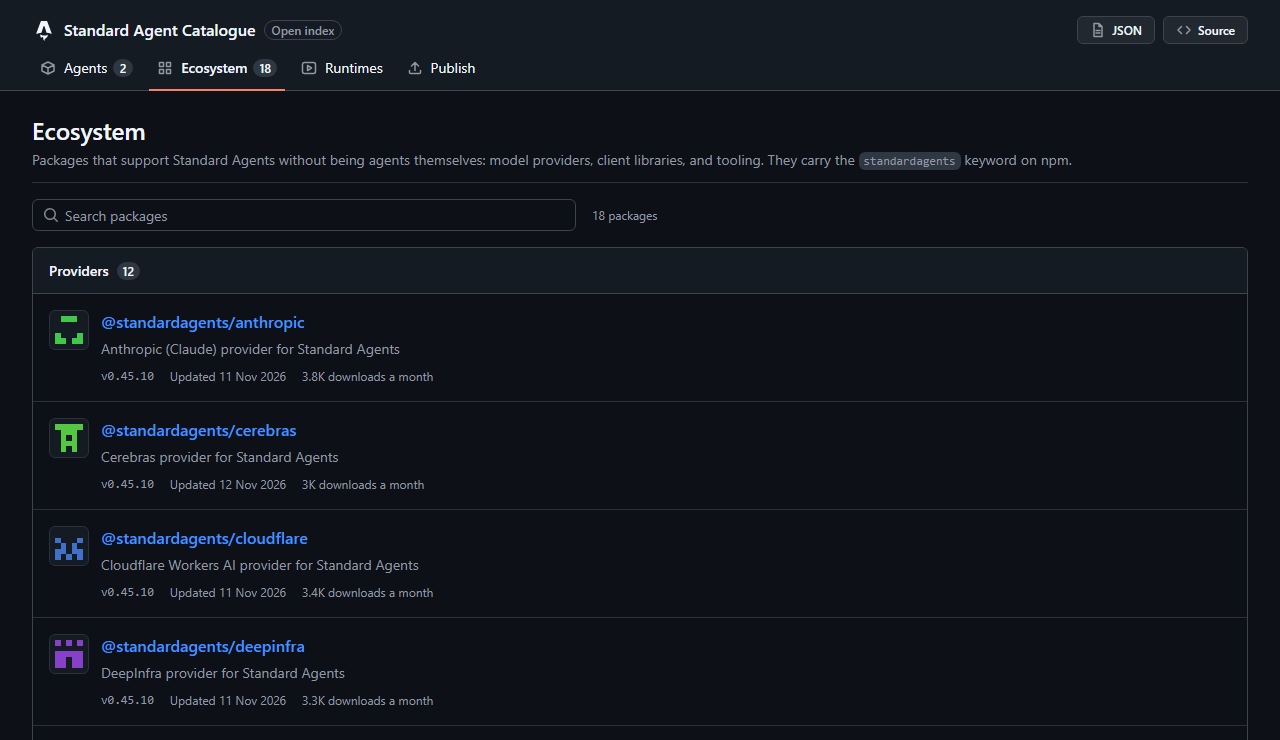
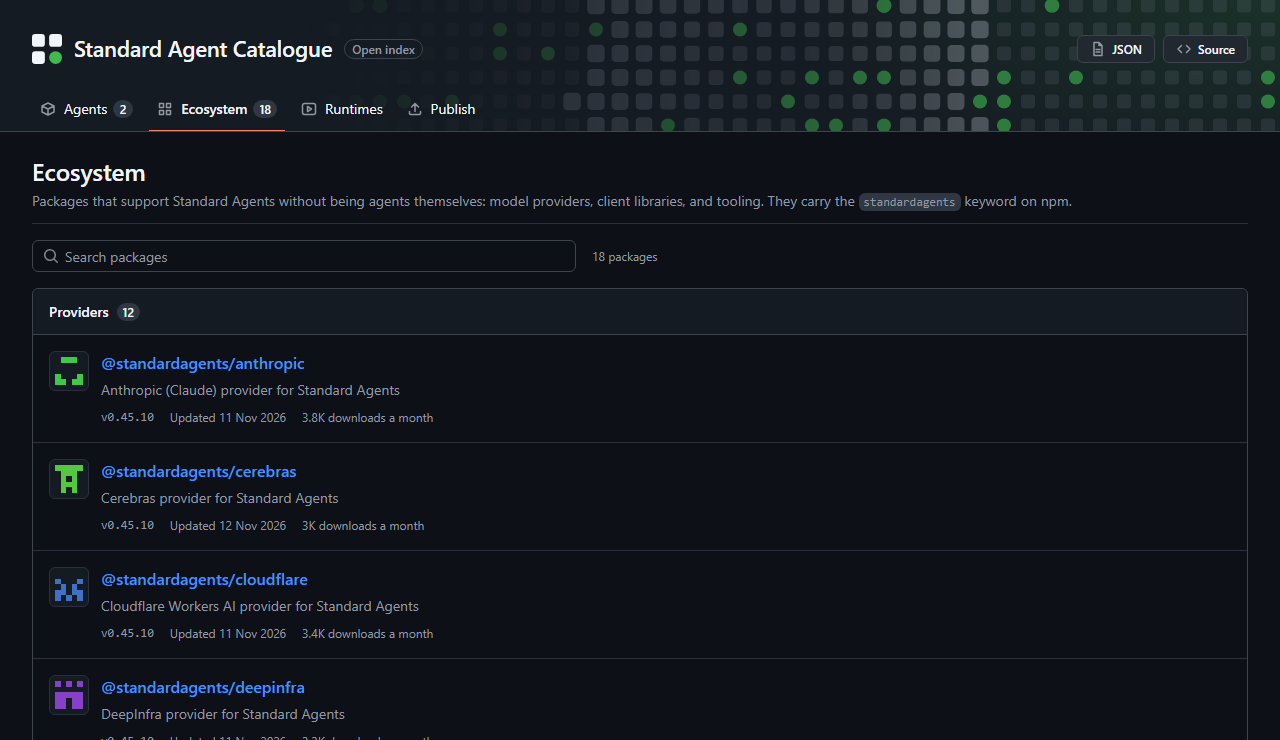
style: a roomier header with an animated picture behind it
- The header has more space, a larger name, and the new logo.
- Behind it is a shelf of packages with agents among them, in the
  logo's shapes. It is drawn at build time, so it shows without script.
- Anime.js moves it: each agent breathes, and one agent at a time sends
  a ripple through the packages near it. A reader who asks for reduced
  motion gets the still picture.

Anime.js sets styles through the CSSOM, which the Content-Security-
Policy allows. Checked by serving the built site with its real headers.

Changed region(s): [[0.0, 0.0, 1.0, 1.0], [0.5625, 0.0311, 0.5938, 0.0622], [0.4688, 0.3419, 0.5, 0.373]]

diff --git a/src/styles/global.css b/src/styles/global.css
@@ -33,6 +33,7 @@
   --btn-primary-bg: #1f883d;
   --btn-primary-hover-bg: #1c8139;
   --btn-primary-border: #1a7f37;
+  --brand-agent: #1f883d;
 
   --radius: 6px;
   --sans: -apple-system, BlinkMacSystemFont, 'Segoe UI', 'Noto Sans', Helvetica, Arial, sans-serif;
@@ -61,6 +62,7 @@
     --btn-primary-bg: #238636;
     --btn-primary-hover-bg: #29903b;
     --btn-primary-border: #2ea043;
+    --brand-agent: #3fb950;
   }
 }
 
@@ -110,38 +112,88 @@ a:focus-visible,
 /* ------------------------------------------------------------------ header */
 
 .site-header {
+  position: relative;
+  overflow: hidden;
   border-bottom: 1px solid var(--border);
-  background: var(--canvas-subtle);
+  /* A faint green light from the top right, where the picture is. */
+  background:
+    radial-gradient(
+      44rem 18rem at 100% 0%,
+      color-mix(in srgb, var(--brand-agent) 14%, transparent),
+      transparent 70%
+    ),
+    var(--canvas-subtle);
 }
 
 .site-header .wrap {
+  position: relative;
   display: flex;
   flex-direction: column;
-  gap: 8px;
-  padding-top: 16px;
+  gap: 28px;
+  padding-top: 32px;
+}
+
+/* The picture behind the header. src/components/HeaderArt.astro draws it and
+   moves it. It fades out towards the left, so the name and the tabs stay easy
+   to read. */
+.header-art {
+  position: absolute;
+  inset: 0 0 0 auto;
+  width: min(100%, 1056px);
+  height: 100%;
+  -webkit-mask-image: linear-gradient(to right, transparent 8%, #000 70%);
+  mask-image: linear-gradient(to right, transparent 8%, #000 70%);
+  pointer-events: none;
+}
+
+.art-package,
+.art-agent {
+  /* Each shape grows and shrinks about its own middle. */
+  transform-box: fill-box;
+  transform-origin: center;
+}
+
+.art-package {
+  fill: var(--fg-muted);
+  opacity: 0.14;
+}
+
+.art-agent {
+  fill: var(--brand-agent);
+  opacity: 0.6;
 }
 
 .brand-row {
   display: flex;
   flex-wrap: wrap;
   align-items: center;
-  gap: 8px;
+  gap: 12px;
 }
 
 .brand {
   display: inline-flex;
   align-items: center;
-  gap: 8px;
+  gap: 12px;
   color: var(--fg);
-  font-size: 16px;
+  font-size: 22px;
   font-weight: 600;
+  letter-spacing: -0.01em;
 }
 
-/* The logo, the same one as the favicon. */
+.brand:hover {
+  text-decoration: none;
+}
+
+/* The logo, the same one as the favicon: three packages and one agent. */
 .brand-mark {
   flex: none;
-  width: 24px;
-  height: 24px;
+  width: 30px;
+  height: 30px;
+  fill: currentColor;
+}
+
+.brand-agent {
+  fill: var(--brand-agent);
 }
 
 /* A small outlined label, such as "Open index" or a version. */
